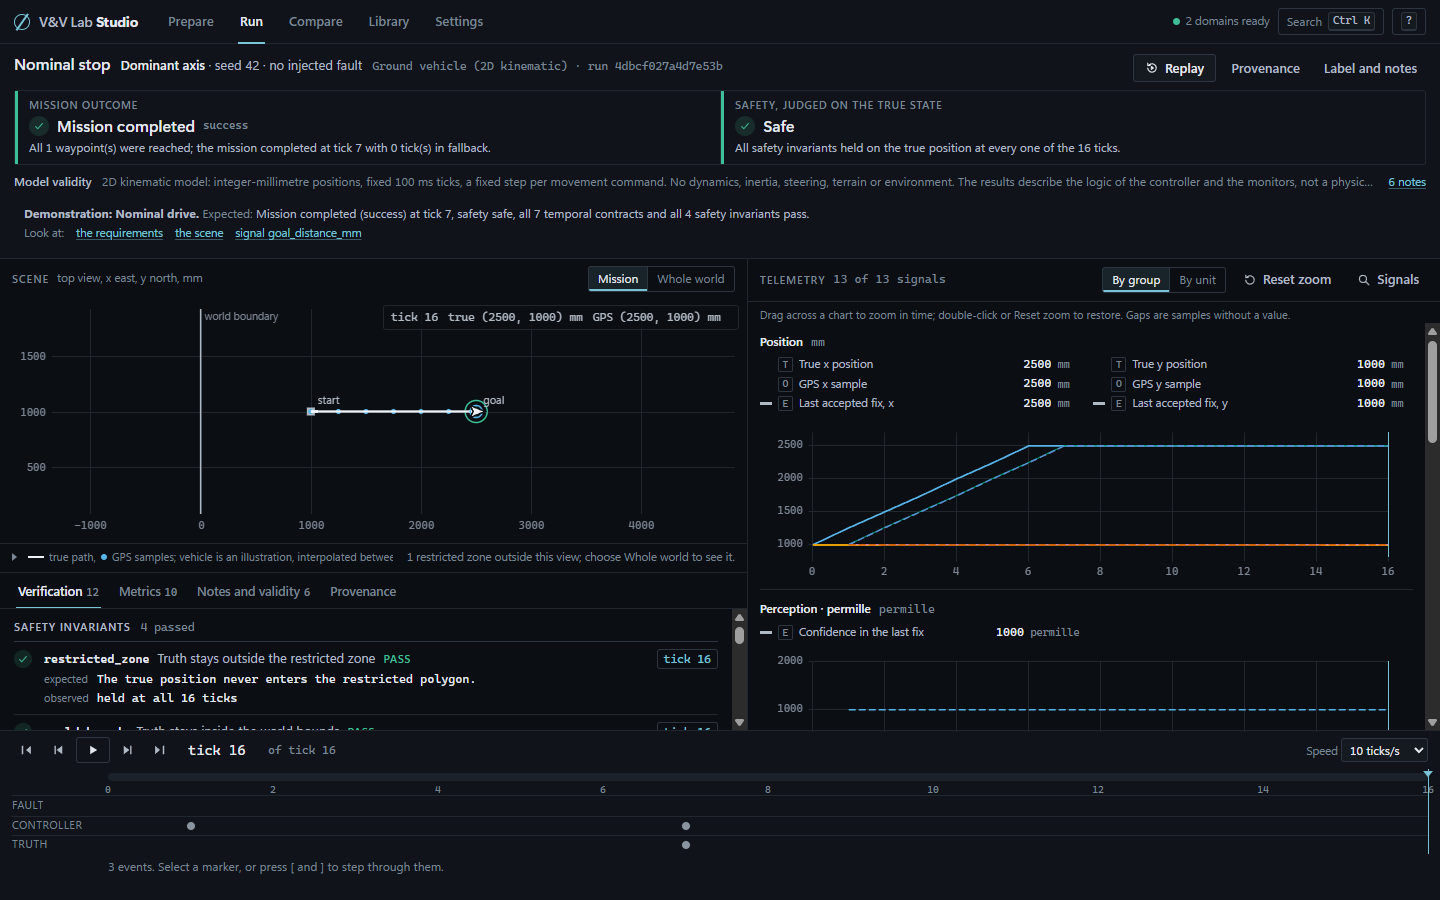
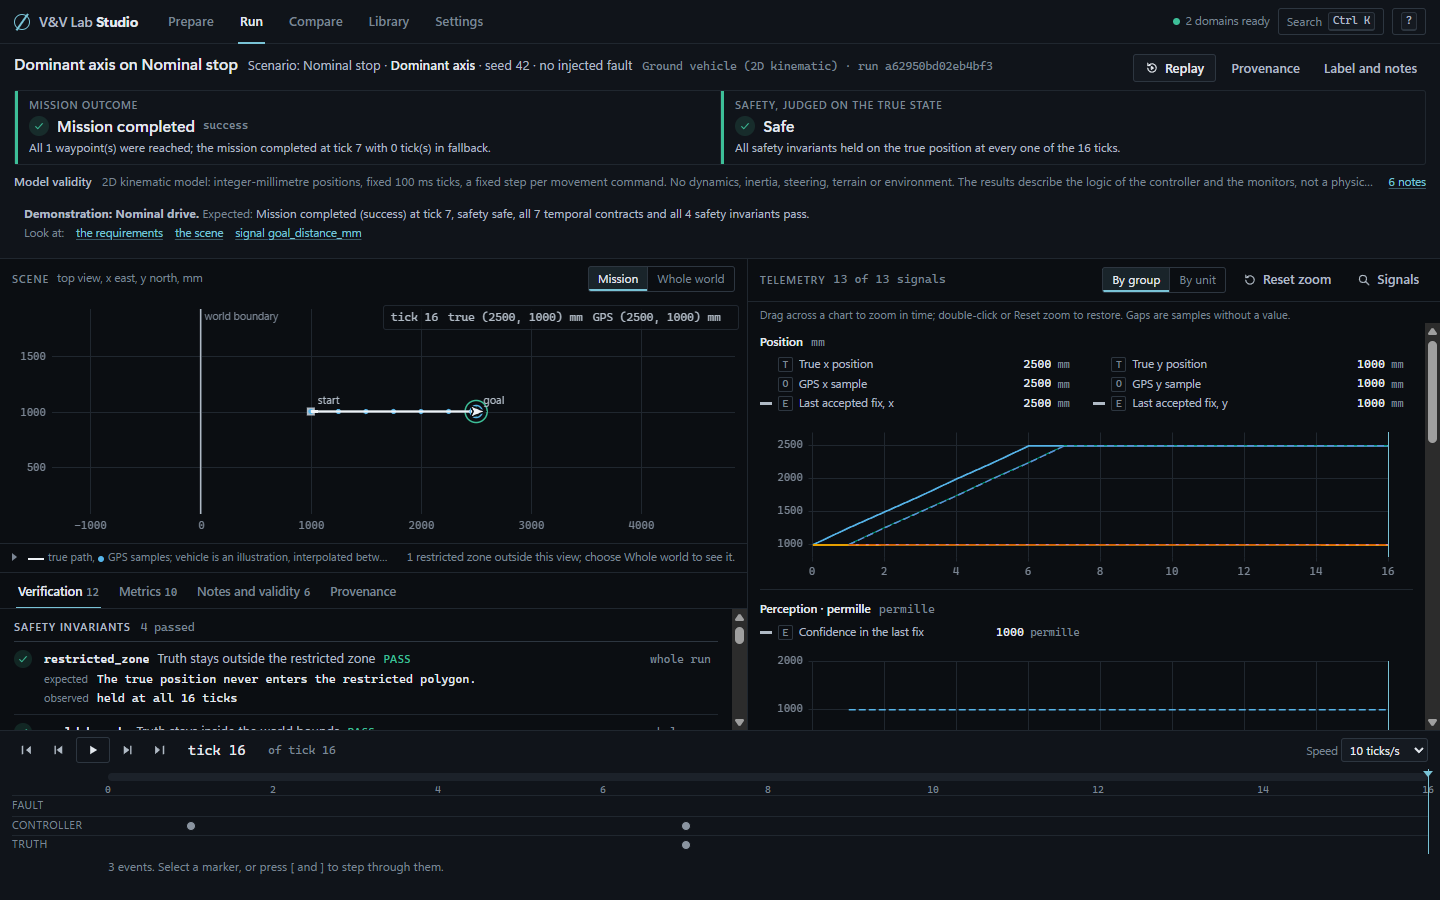
fix: keep verdicts readable at the minimum window and stop colour-only and misleading cues
Verdict explanations stay visible at 1024x640 and expand on keyboard focus.
Rocket runs carry a development tag. The outcome block names failed requirements
outside the safety invariants. Run titles name controller and scenario. The
compare matrix comes first in narrow windows and compared runs differ by dash as
well as colour. Passing requirements no longer show a time button. Light-theme
secondary text meets 4.5:1. Screenshots regenerated by the UI test.

diff --git a/desktop/studio/ui/js/views/compare.js b/desktop/studio/ui/js/views/compare.js
@@ -5,7 +5,7 @@
 import uPlot from '../../vendor/uplot/uPlot.esm.js';
 import { h, clear, icon, num, prose, timeText, lowerIndex, nextId } from '../dom.js';
 import { state, domainById, loadRecord, pref, setPref } from '../store.js';
-import { modelOf, distinguishingLabels, requestText, verdictOfOutcome, verdictOfSafety, verdictOfRequirement, RUN_COLOURS, CATEGORY_TITLE, STATUS_TEXT } from '../model.js';
+import { modelOf, distinguishingLabels, requestText, verdictOfOutcome, verdictOfSafety, verdictOfRequirement, RUN_COLOURS, runDash, runSwatch, CATEGORY_TITLE, STATUS_TEXT } from '../model.js';
 import { verdictGlyph } from '../verification.js';
 import { axisStyle, cursorLine, cssVar } from '../charts.js';
 import { sceneFor, sceneKind } from '../scenes/registry.js';
@@ -91,7 +91,7 @@ function build() {
       const ov = verdictOfOutcome(rec.outcome.status);
       const sv = verdictOfSafety(rec.safety.status);
       return h('div', { class: 'run-key', role: 'listitem', dataset: { run: r.id } },
-        h('span', { class: 'key-swatch', style: { background: colours[i] }, 'aria-hidden': 'true' }),
+        h('span', { class: 'key-swatch', style: { background: runSwatch(colours[i], runDash(i)) }, 'aria-hidden': 'true' }),
         h('span', { class: 'key-label', title: labels[i] }, labels[i]),
         h('button', { type: 'button', class: 'link small', 'aria-label': `Open run ${i + 1}`, onclick: () => navigate('run', { runId: r.id }) }, 'Open'),
         h('span', { class: 'key-verdicts' },
@@ -136,7 +136,7 @@ function matrix() {
   const toggle = h('label', { class: 'toggle small', for: toggleId }, h('input', { type: 'checkbox', id: toggleId, onchange: (e) => { onlyDiff = e.target.checked; draw(); } }), 'Only rows where the runs disagree');
   const draw = () => {
     clear(table);
-    table.append(h('thead', null, h('tr', null, h('th', { scope: 'col' }, 'Verdict'), records.map((r, i) => h('th', { scope: 'col', title: labels[i] }, h('span', { class: 'key-swatch', style: { background: colours[i] } }), `Run ${i + 1}`)))));
+    table.append(h('thead', null, h('tr', null, h('th', { scope: 'col' }, 'Verdict'), records.map((r, i) => h('th', { scope: 'col', title: labels[i] }, h('span', { class: 'key-swatch', style: { background: runSwatch(colours[i], runDash(i)) } }), `Run ${i + 1}`)))));
     const tb = h('tbody');
     const rows = [];
     rows.push(['Mission outcome', records.map((r) => ({ v: verdictOfOutcome(r.record.outcome.status), text: r.record.outcome.label, key: r.record.outcome.code, title: prose(r.record.outcome.explanation) }))]);
@@ -249,7 +249,7 @@ function overlayChart(host, ch) {
   const unit = cmp.unit;
   const readouts = cmp.models.map((m, i) => {
     const v = h('span', { class: 'ro-val mono' });
-    return { v, row: h('li', { class: 'ro' }, h('span', { class: 'swatch', style: { '--sw': cmp.colours[i] } }), h('span', { class: 'kind-badge' }, String(i + 1)), h('span', { class: 'ro-label' }, cmp.labels[i]), v, h('span', { class: 'ro-unit mono dim' }, ch.unit)) };
+    return { v, row: h('li', { class: 'ro' }, h('span', { class: 'swatch', style: { borderTop: '0', height: '2px', background: runSwatch(cmp.colours[i], runDash(i)) } }), h('span', { class: 'kind-badge' }, String(i + 1)), h('span', { class: 'ro-label' }, cmp.labels[i]), v, h('span', { class: 'ro-unit mono dim' }, ch.unit)) };
   });
   const plot = h('div', { class: 'chart-plot' });
   const wrap = h('section', { class: 'chart', 'aria-label': `${ch.label} across runs` },
@@ -266,7 +266,7 @@ function overlayChart(host, ch) {
       { ...ax, size: 28, values: (uu, vals) => vals.map((v) => (unit === 'tick' ? String(Math.round(v)) : num(v, 3))) },
       { ...ax, size: 52, values: (uu, vals) => vals.map((v) => num(v, 3)) },
     ],
-    series: [{}, ...cmp.models.map((m, i) => ({ label: cmp.labels[i], stroke: cmp.colours[i], width: 1.6, dash: i % 2 ? [6, 3] : [], spanGaps: false, points: { show: false } }))],
+    series: [{}, ...cmp.models.map((m, i) => ({ label: cmp.labels[i], stroke: cmp.colours[i], width: 1.6, dash: runDash(i), spanGaps: false, points: { show: false } }))],
   }, data, plot);
   u.over.addEventListener('dblclick', () => u.setScale('x', { min: cmp.t0, max: cmp.t1 }));
   const line = cursorLine(u);

diff --git a/desktop/studio/ui/css/app.css b/desktop/studio/ui/css/app.css
@@ -55,7 +55,7 @@
   --rule-strong: #c6cdd5;
   --fg-1: #11161c;
   --fg-2: #39434e;
-  --fg-3: #65707c;
+  --fg-3: #59636f;
   --accent: #0a6b82;
   --accent-ink: #ffffff;
   --accent-wash: rgba(10, 107, 130, .09);
@@ -348,7 +348,8 @@ input[type="checkbox"], input[type="radio"] { accent-color: var(--accent); width
 .verdict-v .glyph { width: 20px; height: 20px; }
 .verdict-s { font-size: 11px; font-weight: 500; color: var(--fg-3); text-transform: lowercase; }
 .verdict-x { margin: 3px 0 0; color: var(--fg-2); font-size: 12px; display: -webkit-box; -webkit-line-clamp: 1; -webkit-box-orient: vertical; overflow: hidden; }
-.verdict-x:hover { -webkit-line-clamp: unset; }
+.verdict-x:hover, .verdict:focus-within .verdict-x { -webkit-line-clamp: unset; }
+.verdict:focus-visible { outline-offset: -2px; }
 .validity-strip { grid-column: 1 / -1; display: flex; gap: 10px; align-items: baseline; font-size: 12px; color: var(--fg-3); min-width: 0; }
 .validity-strip .vtext { overflow: hidden; text-overflow: ellipsis; white-space: nowrap; min-width: 0; flex: 1; }
 .validity-strip b { color: var(--fg-2); font-weight: 600; }
@@ -366,6 +367,8 @@ input[type="checkbox"], input[type="radio"] { accent-color: var(--accent); width
 .scene-key { flex: 1 1 320px; min-width: 0; font-size: 11px; color: var(--fg-3); }
 .scene-key summary { cursor: pointer; display: flex; gap: 5px; align-items: center; white-space: nowrap; overflow: hidden; text-overflow: ellipsis; list-style: none; }
 .scene-key summary::-webkit-details-marker { display: none; }
+.scene-key .key-text { flex: 1; min-width: 0; overflow: hidden; text-overflow: ellipsis; white-space: nowrap; }
+.scene-key .key-text .lg { display: inline-block; vertical-align: middle; margin-right: 4px; }
 .scene-key summary::before { content: ""; width: 0; height: 0; border: 4px solid transparent; border-left: 5px solid var(--fg-3); margin-right: 2px; transition: transform .15s; flex: none; }
 .scene-key[open] summary::before { transform: rotate(90deg) translateX(2px); }
 .scene-key[open] summary { display: none; }
@@ -527,6 +530,7 @@ span.req-t { border-color: transparent; color: var(--fg-3); cursor: default; }
 .tl-lane-track { position: relative; height: 100%; min-height: 18px; }
 .tl-window { position: absolute; top: 3px; height: 12px; background: var(--fault-wash); border: 1px solid color-mix(in srgb, var(--fault) 50%, transparent); border-radius: 2px; pointer-events: none; }
 .tl-mark { position: absolute; top: 50%; width: 10px; height: 10px; margin: -5px 0 0 -5px; padding: 0; border: 1.5px solid var(--bg-1); background: var(--neutral); cursor: pointer; border-radius: 50%; z-index: 1; }
+.tl-mark::after { content: ""; position: absolute; inset: -6px; }
 .tl-mark:hover, .tl-mark.is-selected { transform: scale(1.35); z-index: 2; box-shadow: 0 0 0 2px var(--accent); }
 .tl-mark.sev-fault { background: var(--fault); border-radius: 1px; }
 .tl-mark.sev-detection { background: var(--obs); transform: rotate(45deg); border-radius: 1px; }
@@ -667,7 +671,7 @@ span.req-t { border-color: transparent; color: var(--fg-3); cursor: default; }
   .verdict-x { -webkit-line-clamp: 1; }
   .cmp-body { grid-template-columns: minmax(0, 1fr); height: auto; }
   .cmp-scene { height: 380px; }
-  .cmp-matrix { max-height: 460px; }
+  .cmp-matrix { max-height: 460px; order: -1; border-bottom: 1px solid var(--rule); }
   .cmp-scene { border-right: 0; border-bottom: 1px solid var(--rule); }
   .lib-filters .input { width: 200px; }
   .settings > section { grid-template-columns: minmax(0, 1fr); }
@@ -699,7 +703,6 @@ span.req-t { border-color: transparent; color: var(--fg-3); cursor: default; }
   .verdict { padding: 5px 10px 5px 12px; }
   .verdict-k { margin-bottom: 2px; }
   .verdict-v { font-size: 14.5px; }
-  .verdict-x { display: none; }
   .run-left { grid-template-rows: minmax(200px, 1.8fr) minmax(110px, 1fr); }
   .scene-bar, .tele-head { min-height: 34px; padding-top: 4px; padding-bottom: 4px; }
   .tele-note { display: none; }

diff --git a/desktop/studio/ui/js/scenes/rocket.js b/desktop/studio/ui/js/scenes/rocket.js
@@ -7,6 +7,7 @@ import * as THREE from '../../vendor/three/three.module.min.js';
 import { OrbitControls } from '../../vendor/three/OrbitControls.js';
 import { h, clear, lowerIndex, sampleAt, num, timeText } from '../dom.js';
 import { cssVar } from '../charts.js';
+import { runDash } from '../model.js';
 import { Plot2D, polyline, extent } from './plot2d.js';
 
 const BODY_LENGTH = 40; // illustration only
@@ -371,8 +372,8 @@ function topView(host, runs, pad, opts = {}) {
           polyline(ctx, P, r.ch.ex, r.ch.ey); ctx.setLineDash([]);
         }
         if (r.ch.nx && r.ch.ny) {
-          ctx.strokeStyle = r.colour || P.colour('--truth-dim'); ctx.lineWidth = 1.8;
-          polyline(ctx, P, r.ch.nx, r.ch.ny);
+          ctx.strokeStyle = r.colour || P.colour('--truth-dim'); ctx.lineWidth = 1.8; ctx.setLineDash(r.dash || []);
+          polyline(ctx, P, r.ch.nx, r.ch.ny); ctx.setLineDash([]);
           const n = r.ch.nx.length - 1;
           ctx.fillStyle = r.colour || P.colour('--truth');
           ctx.beginPath(); ctx.arc(P.x(r.ch.nx[n]), P.y(r.ch.ny[n]), 3.5, 0, Math.PI * 2); ctx.fill();
@@ -414,8 +415,8 @@ function profileView(host, runs, pad) {
       ctx.setLineDash([]);
       for (const r of runs) {
         if (!r.ch.padDist || !r.ch.nz) continue;
-        ctx.strokeStyle = r.colour || P.colour('--truth-dim'); ctx.lineWidth = 1.8;
-        polyline(ctx, P, r.ch.padDist, r.ch.nz);
+        ctx.strokeStyle = r.colour || P.colour('--truth-dim'); ctx.lineWidth = 1.8; ctx.setLineDash(r.dash || []);
+        polyline(ctx, P, r.ch.padDist, r.ch.nz); ctx.setLineDash([]);
       }
     },
     drawDynamic: (ctx, P, t) => {
@@ -492,7 +493,7 @@ function mount(host, model, cursor) {
     pad.keep ? h('li', null, h('span', { class: 'lg lg-zone' }), `S2 keep-out ${num(pad.keep)} m`) : null,
     h('li', { title: `The model has no vehicle length; the ${BODY_LENGTH} m body is drawn for orientation. The plume points along the body axis with a length from the applied throttle; the gimbal deflection is not drawn. Position and attitude are interpolated between the 0.1 s samples for display only.` }, h('span', { class: 'lg lg-veh' }), 'stage: illustration (no length in the model), interpolated between samples for display; plume from applied throttle, gimbal not drawn'));
   const legend = h('details', { class: 'scene-key', open: host.clientHeight > 380 },
-    h('summary', null, h('span', { class: 'lg lg-truth' }), 'true trajectory, pad R5 and S2; stage is an illustration, interpolated between samples for display'),
+    h('summary', null, h('span', { class: 'key-text' }, h('span', { class: 'lg lg-truth' }), 'true trajectory, pad R5 and S2; stage is an illustration, interpolated between samples for display')),
     legendItems);
   host.append(bar, panes, h('div', { class: 'scene-foot' }, legend));
   const r3 = new Rocket3D(v3, model, ch);
@@ -521,7 +522,7 @@ function mount(host, model, cursor) {
 
 function compare(host, models, colours, labels, cursor) {
   clear(host);
-  const runs = models.map((m, i) => ({ ch: channelsOf(m), colour: colours[i], label: labels[i] }));
+  const runs = models.map((m, i) => ({ ch: channelsOf(m), colour: colours[i], dash: runDash(i), label: labels[i] }));
   const pad = padOf(models[0].record.scene);
   const vTop = h('div', { class: 'r2d' });
   const vProf = h('div', { class: 'r2d' });

diff --git a/desktop/studio/ui/js/verification.js b/desktop/studio/ui/js/verification.js
@@ -15,12 +15,19 @@ export function verdictGlyph(v) {
 export function verdictBlocks(record) {
   const ov = verdictOfOutcome(record.outcome.status);
   const sv = verdictOfSafety(record.safety.status);
-  const outcome = h('div', { class: ['verdict', `v-${ov}`], role: 'group', 'aria-label': 'Mission outcome' },
+  // A completed mission can still have failed requirements outside the safety invariants; say so
+  // first, so the one-line clamp keeps it visible.
+  const failedReqs = (record.requirements || []).filter((r) => r.category !== 'invariant' && r.status === 'fail');
+  const failedNote = failedReqs.length
+    ? `${failedReqs.length} requirement${failedReqs.length > 1 ? 's' : ''} outside the safety invariants failed: ${failedReqs.map((r) => r.id).join(', ')}. `
+    : '';
+  // Focusable, so keyboard users can expand the clamped explanation (:focus-within).
+  const outcome = h('div', { class: ['verdict', `v-${ov}`], role: 'group', 'aria-label': 'Mission outcome', tabindex: '0' },
     h('div', { class: 'verdict-k' }, 'Mission outcome'),
     h('div', { class: 'verdict-v' }, verdictGlyph(ov), h('span', null, record.outcome.label), h('span', { class: 'verdict-s mono' }, record.outcome.status)),
-    h('p', { class: 'verdict-x' }, prose(record.outcome.explanation)));
+    h('p', { class: 'verdict-x' }, failedNote ? h('b', null, failedNote) : null, prose(record.outcome.explanation)));
   const cls = record.safety.class;
-  const safety = h('div', { class: ['verdict', `v-${sv}`], role: 'group', 'aria-label': 'Safety' },
+  const safety = h('div', { class: ['verdict', `v-${sv}`], role: 'group', 'aria-label': 'Safety', tabindex: '0' },
     h('div', { class: 'verdict-k' }, 'Safety, judged on the true state'),
     h('div', { class: 'verdict-v' }, verdictGlyph(sv), h('span', null, record.safety.status === 'safe' ? 'Safe' : record.safety.status === 'unsafe' ? 'Unsafe' : record.safety.status),
       cls ? h('span', { class: ['class-badge', `class-${cls}`], title: 'Physical class from the verifier (M10: R recovered, T intact touchdown with a failed mission requirement, U unsafe or failed)' }, `class ${cls}`) : null),
@@ -58,7 +65,8 @@ export function requirementList(record, unit, onTime) {
 
 function requirementRow(r, unit, onTime) {
   const v = verdictOfRequirement(r);
-  const hasT = typeof r.t === 'number' && Number.isFinite(r.t);
+  // A passing requirement holds over the whole run; its instant is not a place to look.
+  const hasT = r.status !== 'pass' && typeof r.t === 'number' && Number.isFinite(r.t);
   const when = hasT
     ? h('button', { type: 'button', class: 'req-t mono', title: 'Move the time cursor to this instant', 'aria-label': `Move the cursor to ${timeText(r.t, unit)}`, onclick: () => onTime && onTime(r.t, r) }, timeText(r.t, unit))
     : h('span', { class: 'req-t mono dim', title: 'Judged over the whole run' }, 'whole run');

diff --git a/desktop/studio/ui/js/scenes/ground.js b/desktop/studio/ui/js/scenes/ground.js
@@ -4,6 +4,7 @@
 
 import { h, clear, lowerIndex, sampleAt, num, timeText } from '../dom.js';
 import { Plot2D, polyline, dots, extent } from './plot2d.js';
+import { runDash } from '../model.js';
 
 const CH = { tx: 'truth_x_mm', ty: 'truth_y_mm', gx: 'gps_x_mm', gy: 'gps_y_mm', hx: 'held_x_mm', hy: 'held_y_mm' };
 
@@ -138,7 +139,7 @@ function mount(host, model, cursor) {
     ['lg-veh', 'vehicle: illustration, interpolated between ticks for display'],
   ]);
   const legend = h('details', { class: 'scene-key', open: host.clientHeight > 380 },
-    h('summary', null, h('span', { class: 'lg lg-truth' }), 'true path, ', h('span', { class: 'lg lg-obs' }), 'GPS samples; vehicle is an illustration, interpolated between ticks for display'),
+    h('summary', null, h('span', { class: 'key-text' }, h('span', { class: 'lg lg-truth' }), 'true path, ', h('span', { class: 'lg lg-obs' }), 'GPS samples; vehicle is an illustration, interpolated between ticks for display')),
     legendItems);
   host.append(bar, plotHost, h('div', { class: 'scene-foot' }, legend, zoneNote));
 
@@ -232,7 +233,7 @@ function compare(host, models, colours, labels, cursor) {
       drawWorld(ctx, P, g);
       paths.forEach((p, i) => {
         if (p.gx && p.gy) { ctx.fillStyle = colours[i]; ctx.globalAlpha = 0.5; dots(ctx, P, p.gx.v, p.gy.v, 2.2); ctx.globalAlpha = 1; }
-        if (p.tx && p.ty) { ctx.strokeStyle = colours[i]; ctx.lineWidth = 2; ctx.setLineDash(i % 2 ? [6, 3] : []); polyline(ctx, P, p.tx.v, p.ty.v); ctx.setLineDash([]); }
+        if (p.tx && p.ty) { ctx.strokeStyle = colours[i]; ctx.lineWidth = 2; ctx.setLineDash(runDash(i)); polyline(ctx, P, p.tx.v, p.ty.v); ctx.setLineDash([]); }
       });
     },
     drawDynamic: (ctx, P, t) => {

diff --git a/desktop/studio/ui/js/views/run.js b/desktop/studio/ui/js/views/run.js
@@ -88,12 +88,15 @@ function build() {
   clear(root);
   const cat = d && d.catalog;
   const rt = requestText(record.request, cat);
+  // The development caveat sits at the end of the validity text, which the strip often cuts off.
+  const devNote = [record.model_validity, ...(record.notes || [])].map(prose).find((t) => t.includes('development arms'));
 
   // Header: identity, actions, verdicts, validity.
   const head = h('header', { class: 'run-head' },
     h('div', { class: 'run-id' },
-      h('h1', null, ws.meta && ws.meta.label ? ws.meta.label : rt.scenario),
-      h('span', { class: 'ident' }, h('b', null, rt.controller), ` · seed ${rt.seed} · ${rt.faults}`),
+      h('h1', null, ws.meta && ws.meta.label ? ws.meta.label : `${rt.controller} on ${rt.scenario}`),
+      h('span', { class: 'ident' }, `Scenario: ${rt.scenario} · `, h('b', null, rt.controller), ` · seed ${rt.seed} · ${rt.faults}`),
+      devNote ? h('span', { class: 'tag tag-dev', title: devNote }, 'development') : null,
       h('span', { class: 'mono dim small' }, `${d ? d.manifest.name : record.domain.id} · run ${ws.runId}`)),
     h('div', { class: 'run-actions' },
       h('button', { type: 'button', class: 'btn', onclick: () => { selectTab('prov'); const b = root.querySelector('[data-action="replay"]'); if (b) b.click(); } }, icon('replay'), 'Replay'),

diff --git a/desktop/studio/ui/js/charts.js b/desktop/studio/ui/js/charts.js
@@ -177,7 +177,7 @@ export class Telemetry {
     const anyBand = groups.some((g) => g.channels.some((c) => this.model.bands.has(c.id)));
     this.note.textContent = [
       'Drag across a chart to zoom in time; double-click or Reset zoom to restore. Gaps are samples without a value.',
-      anyBand ? `Shaded bands are ±${num(k)}σ of the uncertainty the controller declares${declared ? ' (k from the record scene)' : ', k = 1'}: around the estimate, and around zero on estimation-error charts, where the true error should stay inside.` : '',
+      anyBand ? `Shaded bands are ±${num(k)}σ of the uncertainty the controller declares${declared ? ` (k = ${num(k)} is the gate this controller declares in the record)` : ', k = 1'}: around the estimate, and around zero on estimation-error charts, where the true error should stay inside.` : '',
       this.windows.length ? 'Tinted spans are injected fault windows.' : '',
     ].filter(Boolean).join(' ');
     for (const g of groups) this.charts.push(this.makeChart(g, k));

diff --git a/desktop/studio/ui/js/model.js b/desktop/studio/ui/js/model.js
@@ -141,3 +141,18 @@ export function distinguishingLabels(requests, catalog) {
 
 /** One colour per run in a comparison: Okabe-Ito order, safe for the common colour-vision deficiencies. */
 export const RUN_COLOURS = ['#56B4E9', '#E69F00', '#CC79A7', '#009E73', '#0072B2', '#D55E00', '#999999', '#F0E442'];
+
+/** One line dash per run (cycled), so compared runs differ by more than colour. */
+const RUN_DASH_TABLE = [[], [6, 3], [2, 3], [8, 3, 2, 3]];
+export function runDash(i) {
+  return RUN_DASH_TABLE[i % RUN_DASH_TABLE.length];
+}
+
+/** CSS background drawing a run's colour with its dash pattern, for legend swatches. */
+export function runSwatch(colour, dash) {
+  if (!dash.length) return colour;
+  let x = 0;
+  const stops = [];
+  dash.forEach((d, k) => { stops.push(`${k % 2 ? 'transparent' : colour} ${x}px ${x + d}px`); x += d; });
+  return `repeating-linear-gradient(90deg, ${stops.join(', ')})`;
+}
